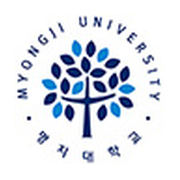
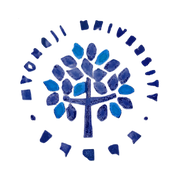
투명 배경 새 로고, 원형 파비콘, 로고색 기반 연한 파란 배경 적용
업로드된 로고가 검은 배경으로 합쳐져 있어 가장자리 색을 복원해 투명 PNG로 만들었다.
배경과 강조색은 로고 남색(#021d6c, 색상각 225도)에서 뽑았다.
어두운 모드에서는 로고를 흰 알약 위에 둔다. 파비콘은 어두운 탭에서도 보이도록 흰 원형 바탕을 깐다.

Claude-Session: https://claude.ai/code/session_0157uMB2xb5ecD1ga31aofv9

diff --git a/src/style.css b/src/style.css
@@ -1,17 +1,17 @@
 :root {
-  --bg: #f6f7f9; --card: #fff; --ink: #1c2330; --muted: #5d6676; --line: #dfe3ea;
-  --brand: #1d4e9e; --brand-ink: #fff; --warn-bg: #fff4d6; --warn-ink: #7a5300;
+  --bg: #edf2fb; --bg-top: #dfe9fa; --card: #fff; --ink: #0f1b38; --muted: #55648a; --line: #d3ddf0;
+  --brand: #0a2a86; --brand-ink: #fff; --accent: #0069ba; --warn-bg: #fff4d6; --warn-ink: #7a5300;
   --high-bg: #fde4e4; --high-ink: #9b1c1c; --ok-bg: #e0f4e6; --ok-ink: #17602e;
 }
 @media (prefers-color-scheme: dark) {
   :root:not([data-theme="light"]) {
-    --bg: #12161d; --card: #1b212b; --ink: #e8ebf0; --muted: #9aa4b5; --line: #2d3644;
-    --brand: #6ea0f0; --brand-ink: #0c1626; --warn-bg: #3b3012; --warn-ink: #f2d27a;
+    --bg: #0a1226; --bg-top: #0f1b3a; --card: #111b34; --ink: #e7edfa; --muted: #9db0d6; --line: #243357;
+    --brand: #7fa6ff; --brand-ink: #0a1226; --accent: #4da6e8; --warn-bg: #3b3012; --warn-ink: #f2d27a;
     --high-bg: #3d1b1b; --high-ink: #f4a6a6; --ok-bg: #16331f; --ok-ink: #8fd8a6;
   }
 }
 * { box-sizing: border-box; }
-body { margin: 0; background: var(--bg); color: var(--ink); font: 15px/1.6 "Pretendard", "Noto Sans KR", system-ui, sans-serif; }
+body { margin: 0; background: linear-gradient(180deg, var(--bg-top) 0, var(--bg) 340px) no-repeat, var(--bg); color: var(--ink); font: 15px/1.6 "Pretendard", "Noto Sans KR", system-ui, sans-serif; }
 .app-header, .tabs, main, footer { max-width: 920px; margin: 0 auto; padding-left: 16px; padding-right: 16px; }
 .app-header { display: flex; justify-content: space-between; align-items: flex-end; gap: 12px; padding-top: 24px; flex-wrap: wrap; }
 h1 { margin: 0; font-size: 1.6rem; }
@@ -66,16 +66,16 @@ footer { color: var(--muted); font-size: .8rem; padding-top: 16px; padding-botto
 .report { background: #fff; color: #111; border: 1px solid var(--line); border-radius: 8px; padding: 28px; margin-top: 16px; font-size: 13.5px; }
 .report h1 { font-size: 1.4rem; text-align: center; margin-bottom: 4px; }
 .report .sub { text-align: center; color: #555; margin: 0 0 16px; }
-.report h3 { font-size: 1rem; border-bottom: 2px solid #1d4e9e; padding-bottom: 2px; margin: 20px 0 8px; color: #1d4e9e; }
+.report h3 { font-size: 1rem; border-bottom: 2px solid #0a2a86; padding-bottom: 2px; margin: 20px 0 8px; color: #0a2a86; }
 .report table { width: 100%; border-collapse: collapse; }
 .report th, .report td { border: 1px solid #c8cdd6; padding: 5px 8px; text-align: left; vertical-align: top; }
-.report th { background: #eef2f8; width: 22%; font-weight: 600; }
+.report th { background: #edf2fb; width: 22%; font-weight: 600; }
 .report .stats { display: grid; grid-template-columns: repeat(4, 1fr); gap: 8px; }
 .report .stat { border: 1px solid #c8cdd6; border-radius: 6px; padding: 8px; text-align: center; }
-.report .stat b { display: block; font-size: 1.3rem; color: #1d4e9e; }
+.report .stat b { display: block; font-size: 1.3rem; color: #0a2a86; }
 .report .bar { display: flex; align-items: center; gap: 8px; margin: 3px 0; }
 .report .bar span.l { width: 140px; flex: none; }
-.report .bar i { display: block; height: 12px; background: #1d4e9e; border-radius: 2px; }
+.report .bar i { display: block; height: 12px; background: #0a2a86; border-radius: 2px; }
 .report .rflag { margin: 3px 0; padding: 4px 8px; border-radius: 4px; }
 .report .rflag.high { background: #fde4e4; color: #9b1c1c; }
 .report .rflag.warn { background: #fff4d6; color: #7a5300; }
@@ -99,7 +99,10 @@ footer { color: var(--muted); font-size: .8rem; padding-top: 16px; padding-botto
   @page { margin: 16mm; }
 }
 
-/* ---- 로고 (흰 배경 이미지이므로 다크 모드에서도 흰 상자 위에 둔다) ---- */
-.brand { display: inline-block; margin-bottom: 10px; padding: 4px 8px; background: #fff; border-radius: 8px; line-height: 0; }
+/* ---- 로고 (투명 PNG. 어두운 배경에서는 남색이 묻히므로 흰 알약 위에 둔다) ---- */
+.brand { display: inline-block; margin-bottom: 10px; line-height: 0; }
 .brand-logo { display: block; height: 41px; width: auto; }
 .report-logo { display: block; height: 44px; width: auto; margin: 0 auto 10px; }
+@media (prefers-color-scheme: dark) {
+  :root:not([data-theme="light"]) .brand { padding: 4px 10px; background: #fff; border-radius: 999px; }
+}

diff --git a/src/app.js b/src/app.js
@@ -132,7 +132,7 @@ async function buildReport(doc, integrity) {
   a.perEntry.forEach((fl, i) => fl.forEach((f) => flagRows.push(`<div class="rflag ${f.severity}">#${i + 1} · ${f.severity === 'high' ? '정책 확인 필요' : '보완 권장'} — ${esc(f.text)}</div>`)));
 
   return `
-  <img class="report-logo" src="assets/mju-logo.jpg" alt="명지대학교" width="190" height="44">
+  <img class="report-logo" src="assets/mju-logo.png" alt="명지대학교" width="190" height="44">
   <h1>생성형 AI 사용 내역서</h1>
   <p class="sub">${esc(meta.course) || '과목명 미입력'} · ${esc(meta.assignment) || '과제명 미입력'}</p>
   <table>

diff --git a/index.html b/index.html
@@ -12,7 +12,7 @@
 <body>
 <header class="app-header no-print">
   <div>
-    <a class="brand" href="./"><img class="brand-logo" src="assets/mju-logo.jpg" alt="명지대학교" width="175" height="41"></a>
+    <a class="brand" href="./"><img class="brand-logo" src="assets/mju-logo.png" alt="명지대학교" width="177" height="41"></a>
     <h1>AI 사용 내역서</h1>
     <p>과제에 쓴 생성형 AI를 기록하고, 교수님께 제출할 내역서를 만들어 드립니다.</p>
   </div>
